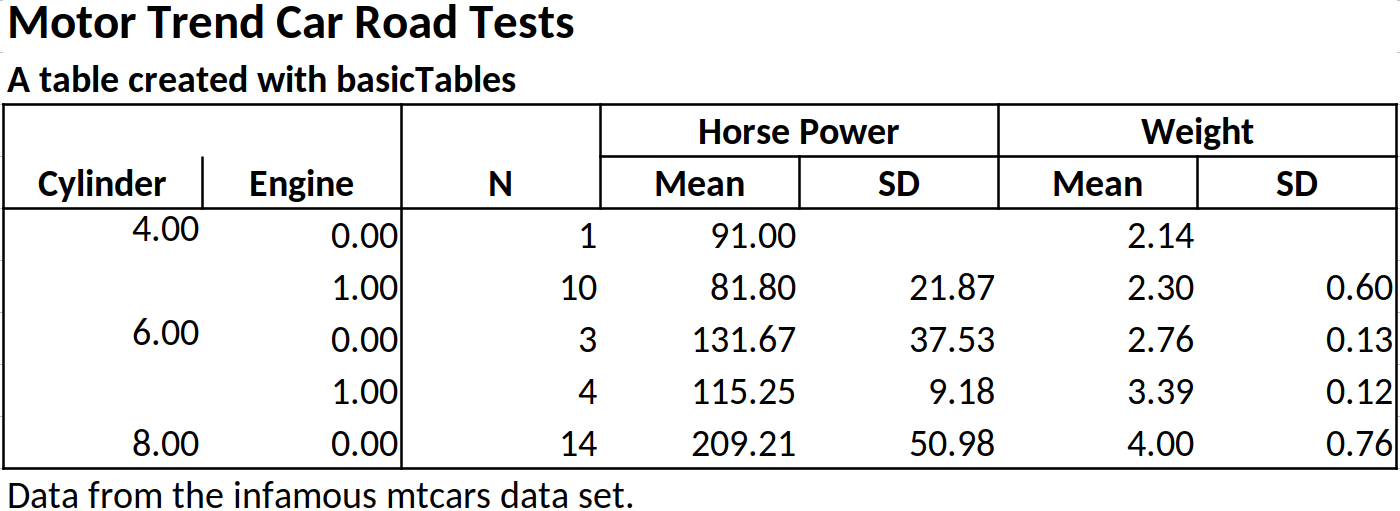
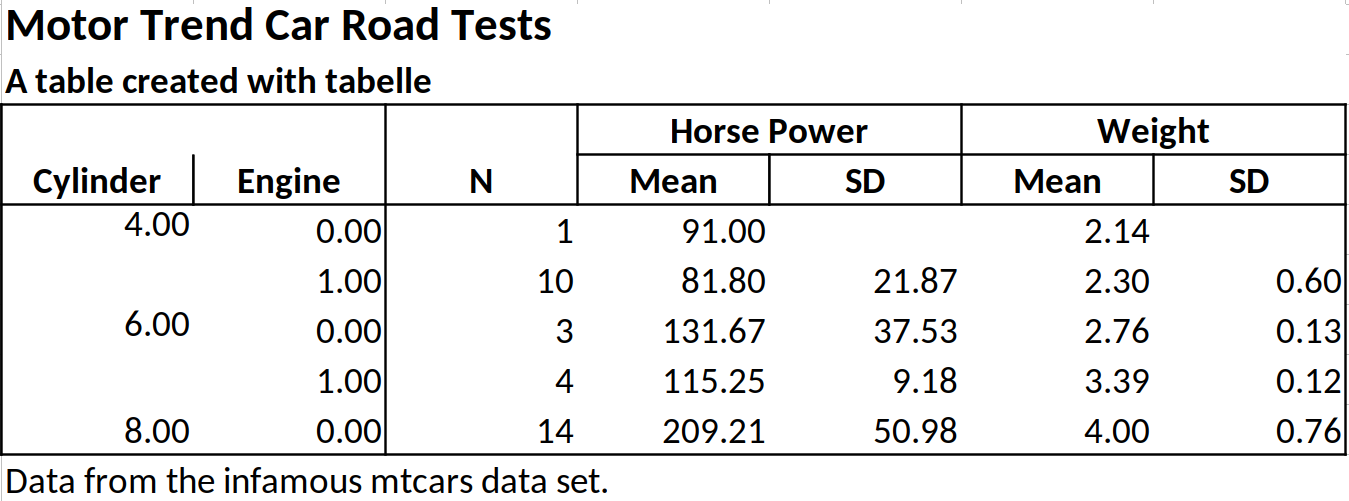
extended documentation and added github pages

diff --git a/README.md b/README.md
@@ -3,24 +3,34 @@
 
 # tabelle
 
-> Create mediocre Excel tables in R.
+> Create satisficing Excel tables in R.
 
 The objective of `tabelle` is to provide a “good enough” approach to
-creating tables in R. The main use case is to quickly share tables using
-the .xlsx format without much hassle.
+creating tables in R.
 
-Due to the limited approach, tabelle is a lot less sophisticated than
-the awesome packages [gt](https://gt.rstudio.com/), or
-[expss](https://gdemin.github.io/expss/#Introduction). The main
-advantage of tabelle is its simplicity and its focus on creating .xslx
+Due to the limited approach, `tabelle` is a lot less sophisticated than
+the awesome packages [`gt`](https://gt.rstudio.com/), or
+[`expss`](https://gdemin.github.io/expss/#Introduction). The main
+advantage of `tabelle` is its simplicity and its focus on creating .xslx
 tables.
 
-## Example
+## Installation
 
-tabelle assumes that you already have a perfectly summarized table that
-you now want to share using .xlsx. That is, tabelle will not create any
-crosstables, compute percentages or similar. It mostly adds column names
-with spanners, combines rownames, and writes the result to .xlsx files.
+`tabelle` is not yet available from CRAN. To install from GitHub, run
+the following lines:
+
+``` r
+library(remotes)
+remotes::install_github("jhorzek/tabelle")
+```
+
+## Introduction
+
+`tabelle` assumes that you already have a perfectly summarized table
+that you now want to share using .xlsx. That is, `tabelle` will not
+create any crosstables, compute percentages or similar. It mostly adds
+column names with spanners, combines rownames, and writes the result to
+.xlsx files.
 
 Let’s assume we want to share the following table:
 
@@ -59,8 +69,8 @@ weight (`wt`) variables. The result should look something like this:
     | -------- | ------ | ----- | --- | ---- | -- |
     |                   |                         |
 
-In tabelle, the table headers are defined with a formula approach
-inspired by the [tables](https://dmurdoch.github.io/tables/) package.
+In `tabelle`, the table headers are defined with a formula approach
+inspired by the [`tables`](https://dmurdoch.github.io/tables/) package.
 For example, `cyl ~ mean_hp + sd_hp` defines a table with `cyl` as the
 row names and `mean_hp` and `sd_hp` as columns. The output in Excel will
 be similar to the following:
@@ -100,16 +110,26 @@ tabelle(data = summarized_table,
 Spanners can also be nested (e.g.,
 `cyl ~ (Horsepower = (Mean = mean_hp) + (SD  = sd_hp))`.
 
-A limitation of the table above is that the names in the table - `cyl`,
-`mean_hp`, and `sd_hp` - are identical to the names of the variables in
-R. They include redundant information as the spanner `Horsepower`
-already tells us that the `mean_hp` and `sd_hp` are the mean and
-standard deviation for horsepower - we can drop the `_hp` part.
+``` r
+tabelle(data = summarized_table,
+        formula = cyl ~ (Horsepower = (Mean = mean_hp) + (SD  = sd_hp)))
+#>                            
+#>  |     | Horsepower       |
+#>  |     | Mean       SD    |
+#>  | cyl | mean_hp    sd_hp |
+#>  | --- - ---------- ----- |
+#>  | 4   | 91               |
+#>  | 4   | 81.8       21.87 |
+#>  | 6   | 131.67     37.53 |
+#>  | ... | ...        ...   |
+```
 
-tabelle can rename variables when exporting to .xlsx with
-`new_name:old_name`. For example,
-`cyl ~ (Horsepower = Mean:mean_hp + SD:sd_hp)` renames `mean_hp` to
-`Mean` and `sd_hp` to `SD`:
+Often, we may want to replace the technical names (e.g., `mean_hp` and
+`sd_hp`) used in `R` when exporting to .xlsx. In the example above, we
+may want to replace `mean_hp` and `sd_hp` with “Mean” and “SD”. In
+`tabelle` renaming variables is achieved with `new_name:old_name`. For
+example, `cyl ~ (Horsepower = Mean:mean_hp + SD:sd_hp)` renames
+`mean_hp` to `Mean` and `sd_hp` to `SD`:
 
 ``` r
 tabelle(data = summarized_table,
@@ -186,6 +206,69 @@ tabelle(data = summarized_table,
 #>  | 131.67     37.53 |
 #>  | ...        ...   |
 ```
+
+### Styling
+
+While `tabelle` provides limited styling options, some elements can be
+adjusted. For example, we may want to print some elements in bold or
+format numbers differently. In `tabelle`, styling happens when
+translating the table to an `openxlsx` workbook with `write_tab`. To
+this end, `tabelle` provides a \`style
+
+#### Formatting Cells
+
+Let’s assume we want all `mean_hp` values with a value $\geq 100$ to be
+printed in bold. To this end, we first create a new style object using
+`openxlsx`:
+
+``` r
+bold <- openxlsx::createStyle(textDecoration = "bold")
+```
+
+Next, we create a cell style with `tabelle`:
+
+``` r
+hp_ge_100 <- cell_style(rows = which(summarized_table$mean_hp >= 100), 
+                        colnames = "mean_hp", 
+                        style = bold,
+                        gridExpand = FALSE)
+```
+
+Note that we specify the indices of the rows that we want to be in bold
+and the column name of the item.
+
+Finally, we pass this style as part of a list to `write_tab`:
+
+``` r
+# write_tab creates an openxlsx workbook
+wb <- write_tab(tbl = tbl, styles = tab_styles(cell_styles = list(hp_ge_100)))
+
+# Save the workbook as an xlsx file:
+# openxlsx::saveWorkbook(wb,
+#                        file = "cars.xlsx", overwrite = TRUE)
+```
+
+![](man/figures/basicTables_example_cars_styled.png)
+
+#### Formatting Data Types
+
+`tabelle` also allows formatting specific data types. Let’s assume that
+we want to round all doubles to 3 instead of the default four digits. To
+this end, we use the `create_data_styles` function, where we specify (1)
+a function that checks for the data type we want to style (here
+`is.double`) and (2) a style for all columns that match that style:
+
+``` r
+double_style <- create_data_styles(double = list(test = is.double, 
+                                                 style = openxlsx::createStyle(numFmt = "0.000")))
+wb <- write_tab(tbl = tbl, styles = tab_styles(data_styles = double_style))
+
+# Save the workbook as an xlsx file:
+# openxlsx::saveWorkbook(wb,
+#                        file = "cars.xlsx", overwrite = TRUE)
+```
+
+![](man/figures/basicTables_example_cars_styled_data.png)
 
 ## References
 
